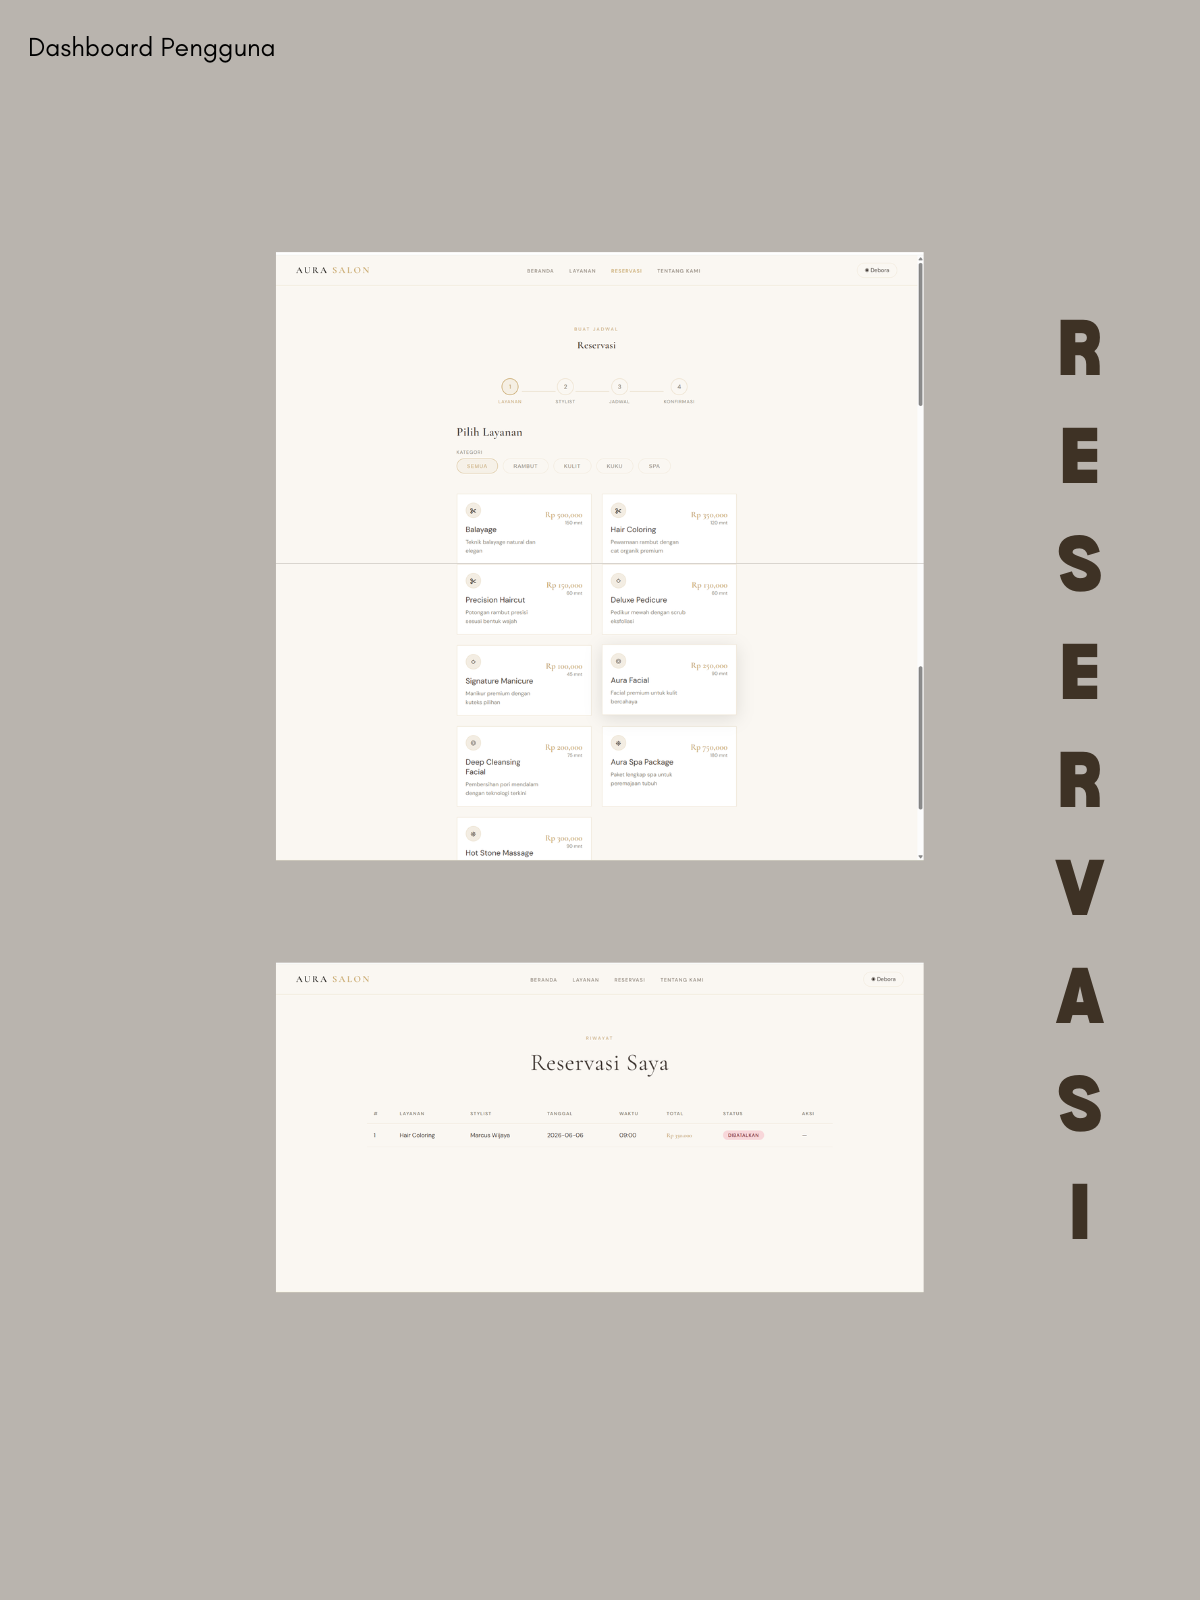
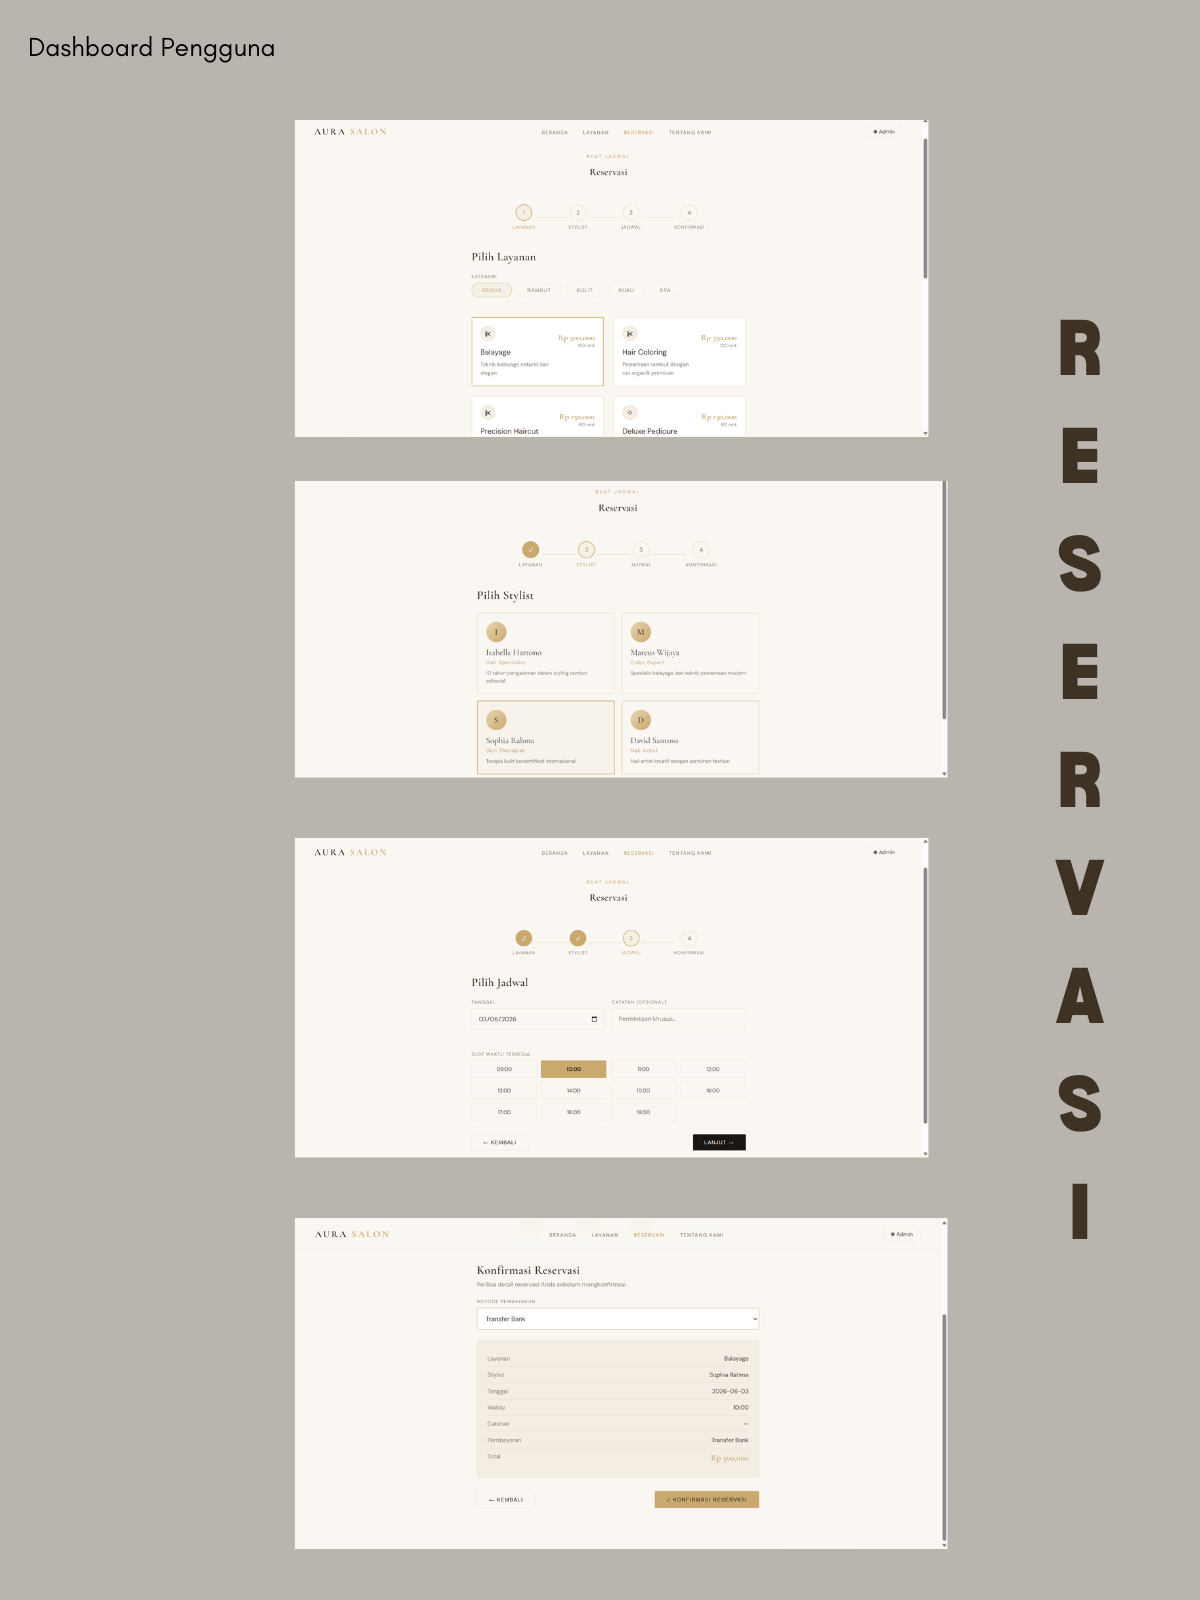
update tampilan

Changed region(s): [[0.2158, 0.0625, 0.8017, 0.9688], [0.4625, 0.1875, 0.5242, 0.2188]]

diff --git a/README.md b/README.md
@@ -12,7 +12,7 @@ AURA SALON adalah sistem reservasi layanan kecantikan berbasis web yang dirancan
 - Registrasi & Login pengguna
 - Lihat layanan salon (hair, skin, nail, spa)
 - Pilih layanan, stylist & slot waktu yang tersedia
-- Buat dan batalkan reservasi
+- Buat, pembayaran dan batalkan reservasi
 - Dashboard admin untuk manajemen reservasi
 
 ## Cara Menjalankan
